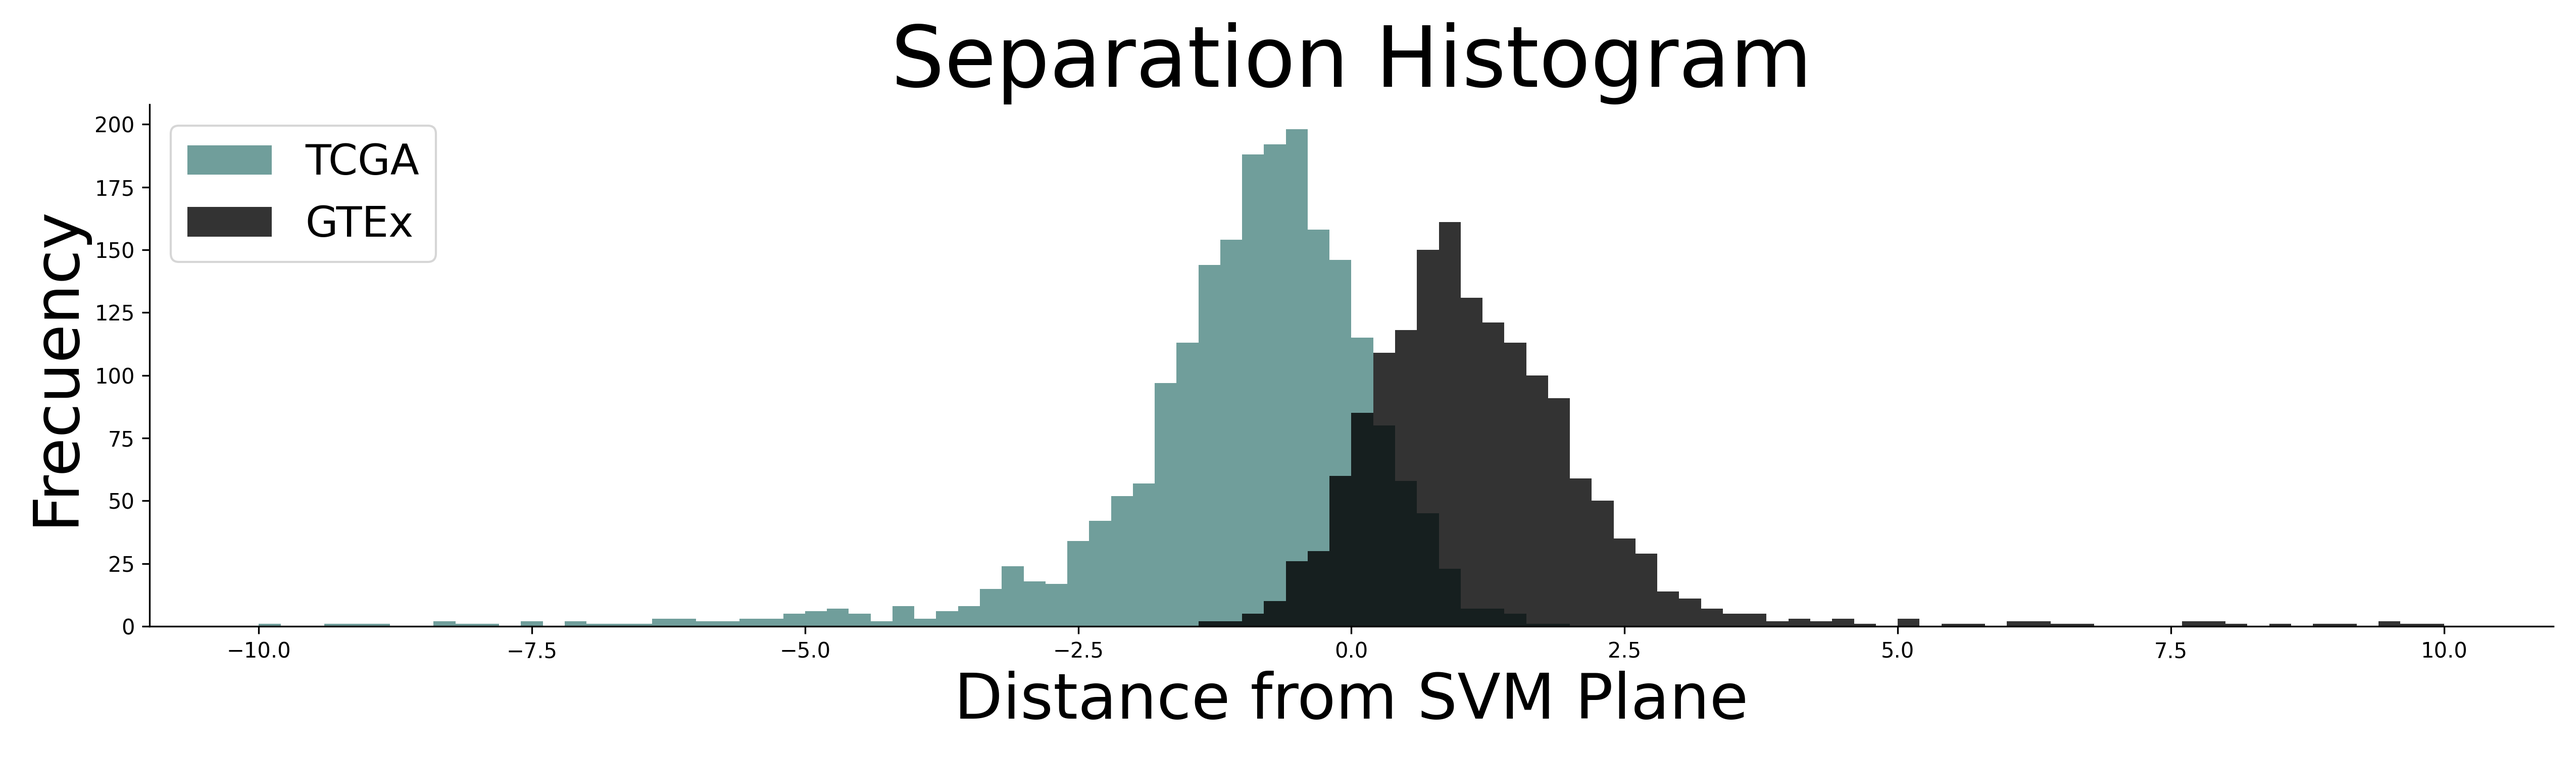
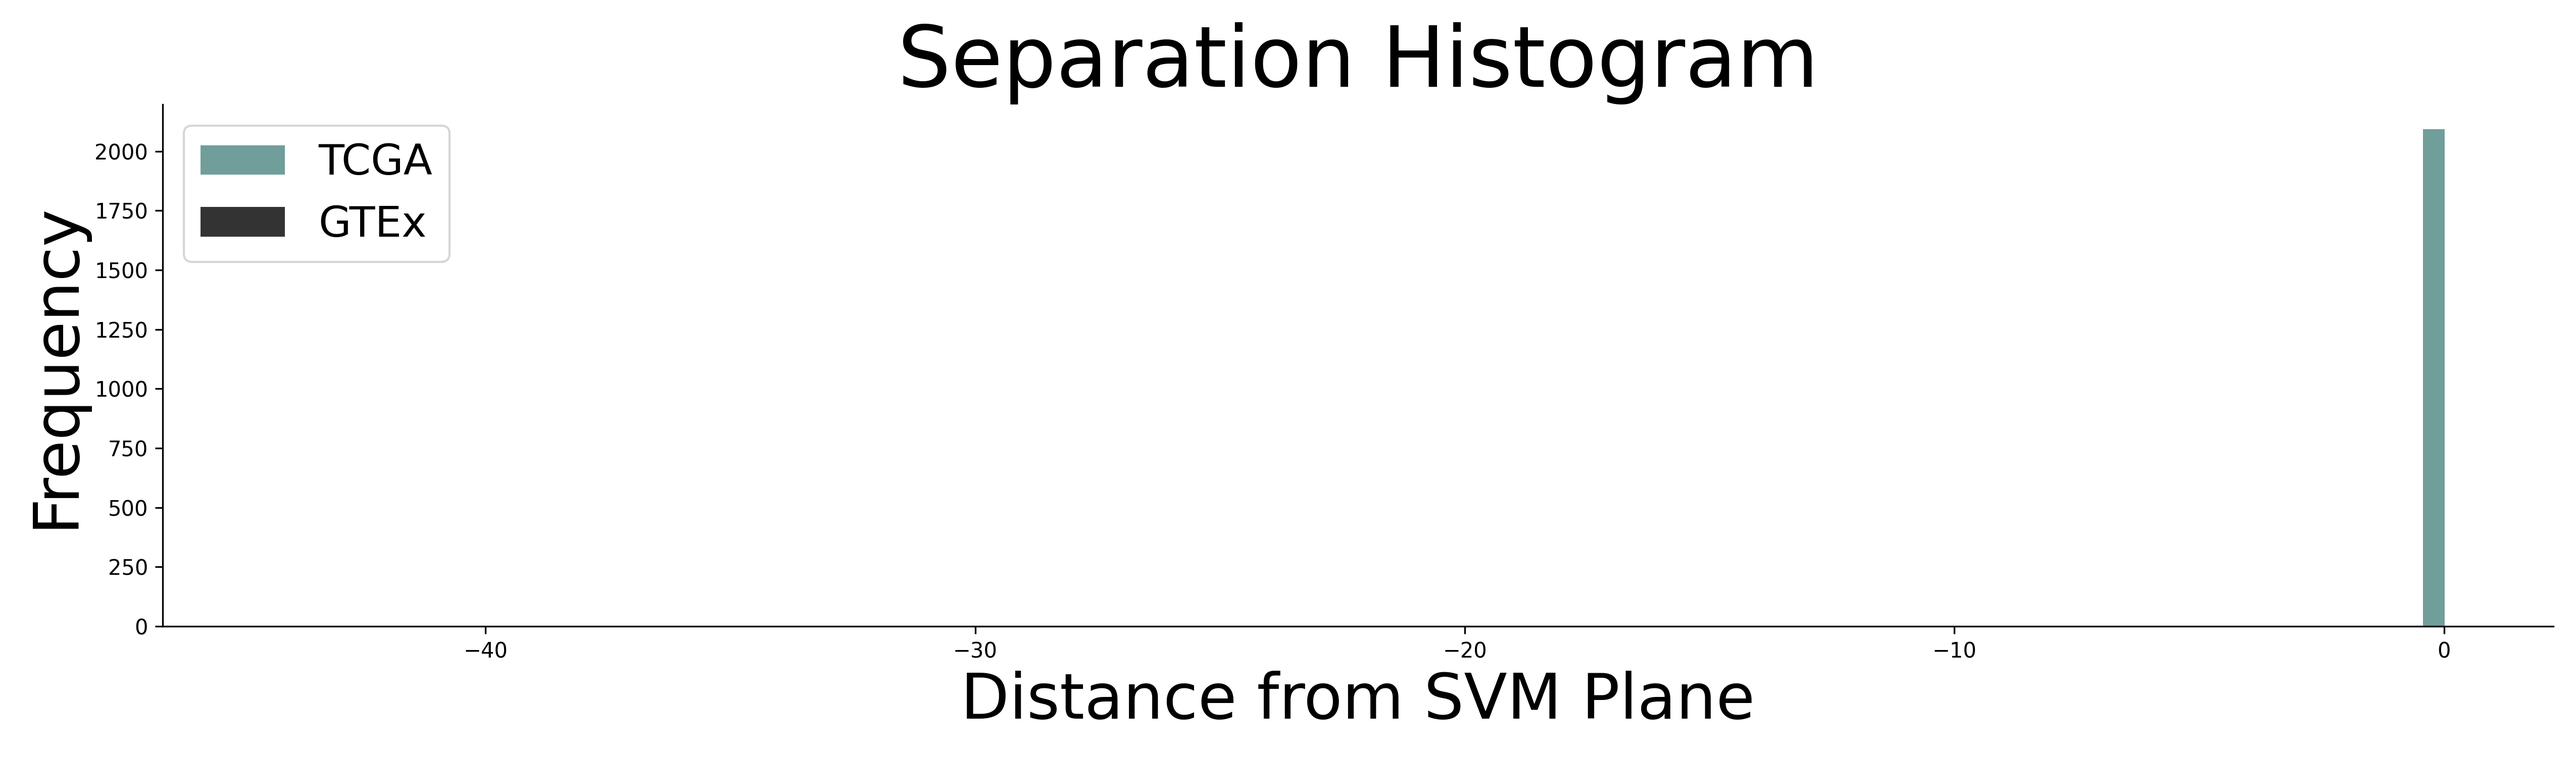
Checkpoint before making changes to filter_genes()

diff --git a/bias_check.py b/bias_check.py
@@ -10,7 +10,7 @@ plt.rcParams['axes.axisbelow'] = True
 ######################################################################
 #            You can safely change these parameters                  #
 ######################################################################
-dataset_to_check = 'toil' # toil , wang or toil_norm
+dataset_to_check = 'toil_norm' # toil , wang or toil_norm
 ######################################################################
 
 # Make directory to save bias separation histograms
@@ -32,7 +32,7 @@ if (dataset_to_check=='toil') or (dataset_to_check=='toil_norm'):
             binary_dict[label] = 1
 
     # Define normalization
-    norm_str = 'none' if dataset_to_check=='toil' else 'normal'
+    norm_str = 'None' if dataset_to_check=='toil' else 'normal'
 
 
     # Declare dataset
@@ -41,7 +41,8 @@ if (dataset_to_check=='toil') or (dataset_to_check=='toil_norm'):
                                 tissue = 'all',
                                 binary_dict=binary_dict,
                                 mean_thr = -10.0,
-                                std_thr = -0.1,
+                                std_thr = 0.0,
+                                rand_frac=0.001, # FIXME: Original value 1.0
                                 label_type = 'phenotype',
                                 batch_normalization=norm_str,
                                 partition_seed = 0,
@@ -119,8 +120,8 @@ gtex_dist = dist_plane[~y_val]
 # Plot and save histogram of distances 
 plt.figure(figsize=(17,5))
 if dataset_to_check == 'toil_norm':
-    plt.hist(tcga_dist, bins=100, color='#4c8682', label='TCGA', alpha=0.8, range=(-10,10))
-    plt.hist(gtex_dist, bins=100, color='k', label='GTEx', alpha=0.8, range=(-10,10))
+    plt.hist(tcga_dist, bins=100, color='#4c8682', label='TCGA', alpha=0.8) #, range=(-10,10)
+    plt.hist(gtex_dist, bins=100, color='k', label='GTEx', alpha=0.8) # , range=(-10,10)
 else:
     plt.hist(tcga_dist, bins=40, color='#4c8682', label='TCGA', alpha=0.8)
     plt.hist(gtex_dist, bins=40, color='k', label='GTEx', alpha=0.8)
@@ -133,3 +134,9 @@ ax.spines['top'].set_visible(False)
 ax.spines['right'].set_visible(False)
 plt.tight_layout()
 plt.savefig(save_path, dpi=300)
+
+
+plt.figure()
+x_train.plot(x='ENSG00000224518.2', y='ENSG00000212498.1', kind='scatter')
+plt.savefig(os.path.join('Figures', 'test_outlier.png'), dpi=300)
+

diff --git a/datasets.py b/datasets.py
@@ -49,12 +49,12 @@ class ToilDataset():
         self.matrix_data, self.categories, self.phenotypes = self.read_data()
         # Filter toil datasets to use GTEx, TCGA or both
         self.matrix_data_filtered, self.categories_filtered, self.phenotypes_filtered = self.filter_toil_datasets()
-        # Filter genes based on mean and std. This also subsamples the resulting filtered gene list by self.rand_frac
-        self.filtered_gene_list, self.gene_filtered_data_matrix = self.filter_genes()
         # Get labels and label dictionary. 
         self.label_df, self.lab_txt_2_lab_num = self.find_labels()
         # Find stats of each dataset segment
         self.general_stats = self.find_means_and_stds()
+        # Filter genes based on mean and std. This also subsamples the resulting filtered gene list by self.rand_frac
+        self.filtered_gene_list, self.gene_filtered_data_matrix = self.filter_genes()
         # Perform batch normalization this uses files saved by self.find_means_and_stds() and normalizes self.gene_filtered_data_matrix  
         self.batch_normalize()
         # Filter self.label_df and self.lab_txt_2_lab_num based on the specified tissue
@@ -355,7 +355,7 @@ class ToilDataset():
         if os.path.exists(os.path.join(self.path, 'general_stats.csv')):
             print('Loading general stats from '+os.path.join(self.path, 'general_stats.csv'))
             general_stats = pd.read_csv(os.path.join(self.path, 'general_stats.csv'), index_col = 0)
-        # If the stats are not computed compiute them and save them in file
+        # If the stats are not computed compute them and save them in file
         else:
             print('Computing general stats and saving to '+os.path.join(self.path, 'general_stats.csv'))
             # Define auxiliary tcga dataframe to obtain healthy tcga samples
